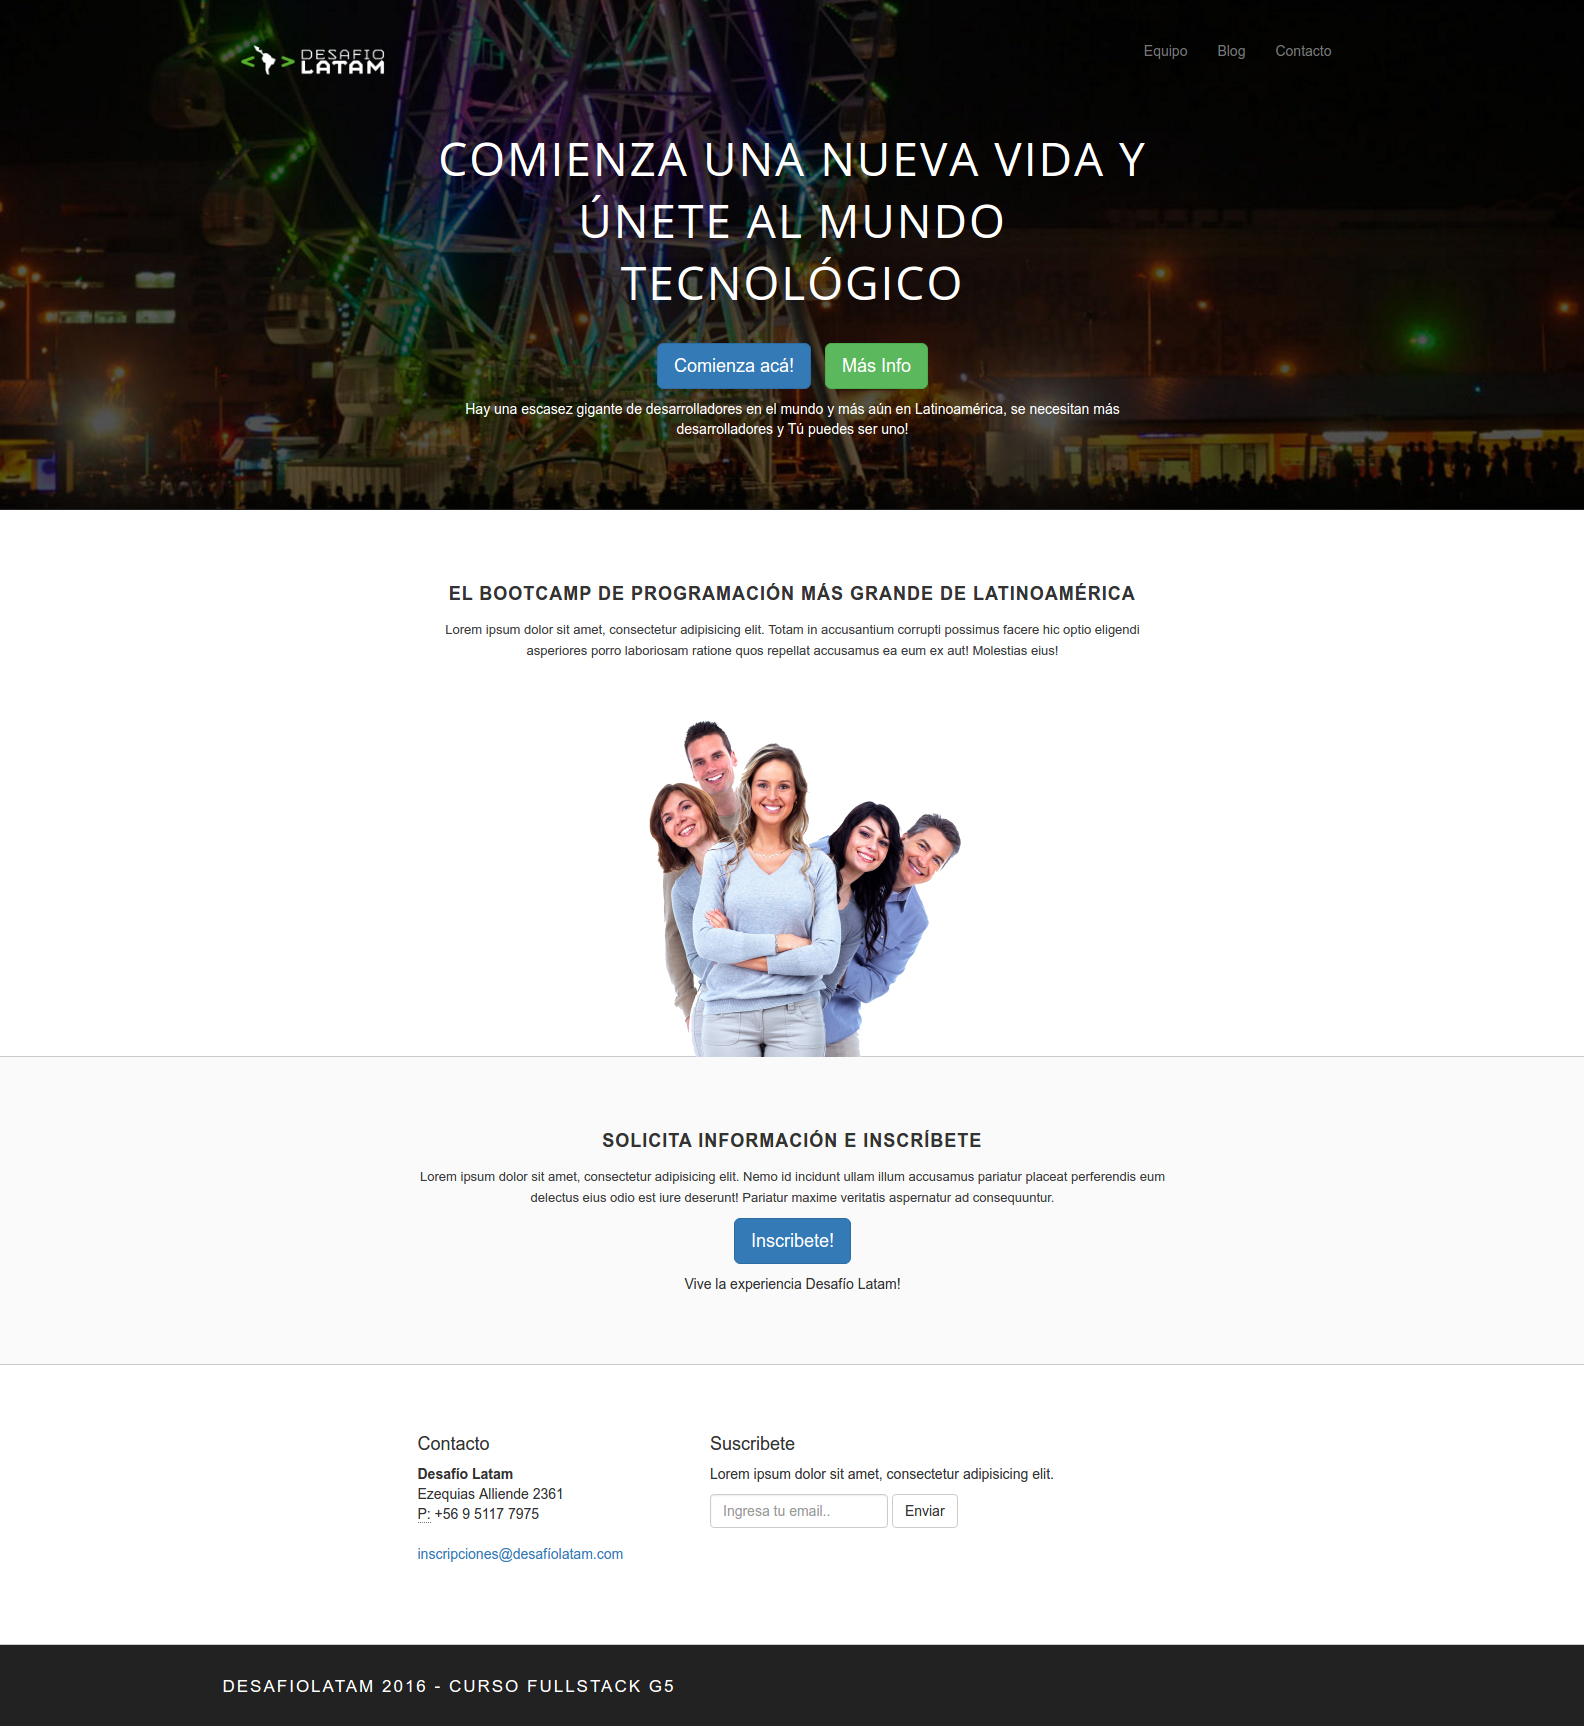
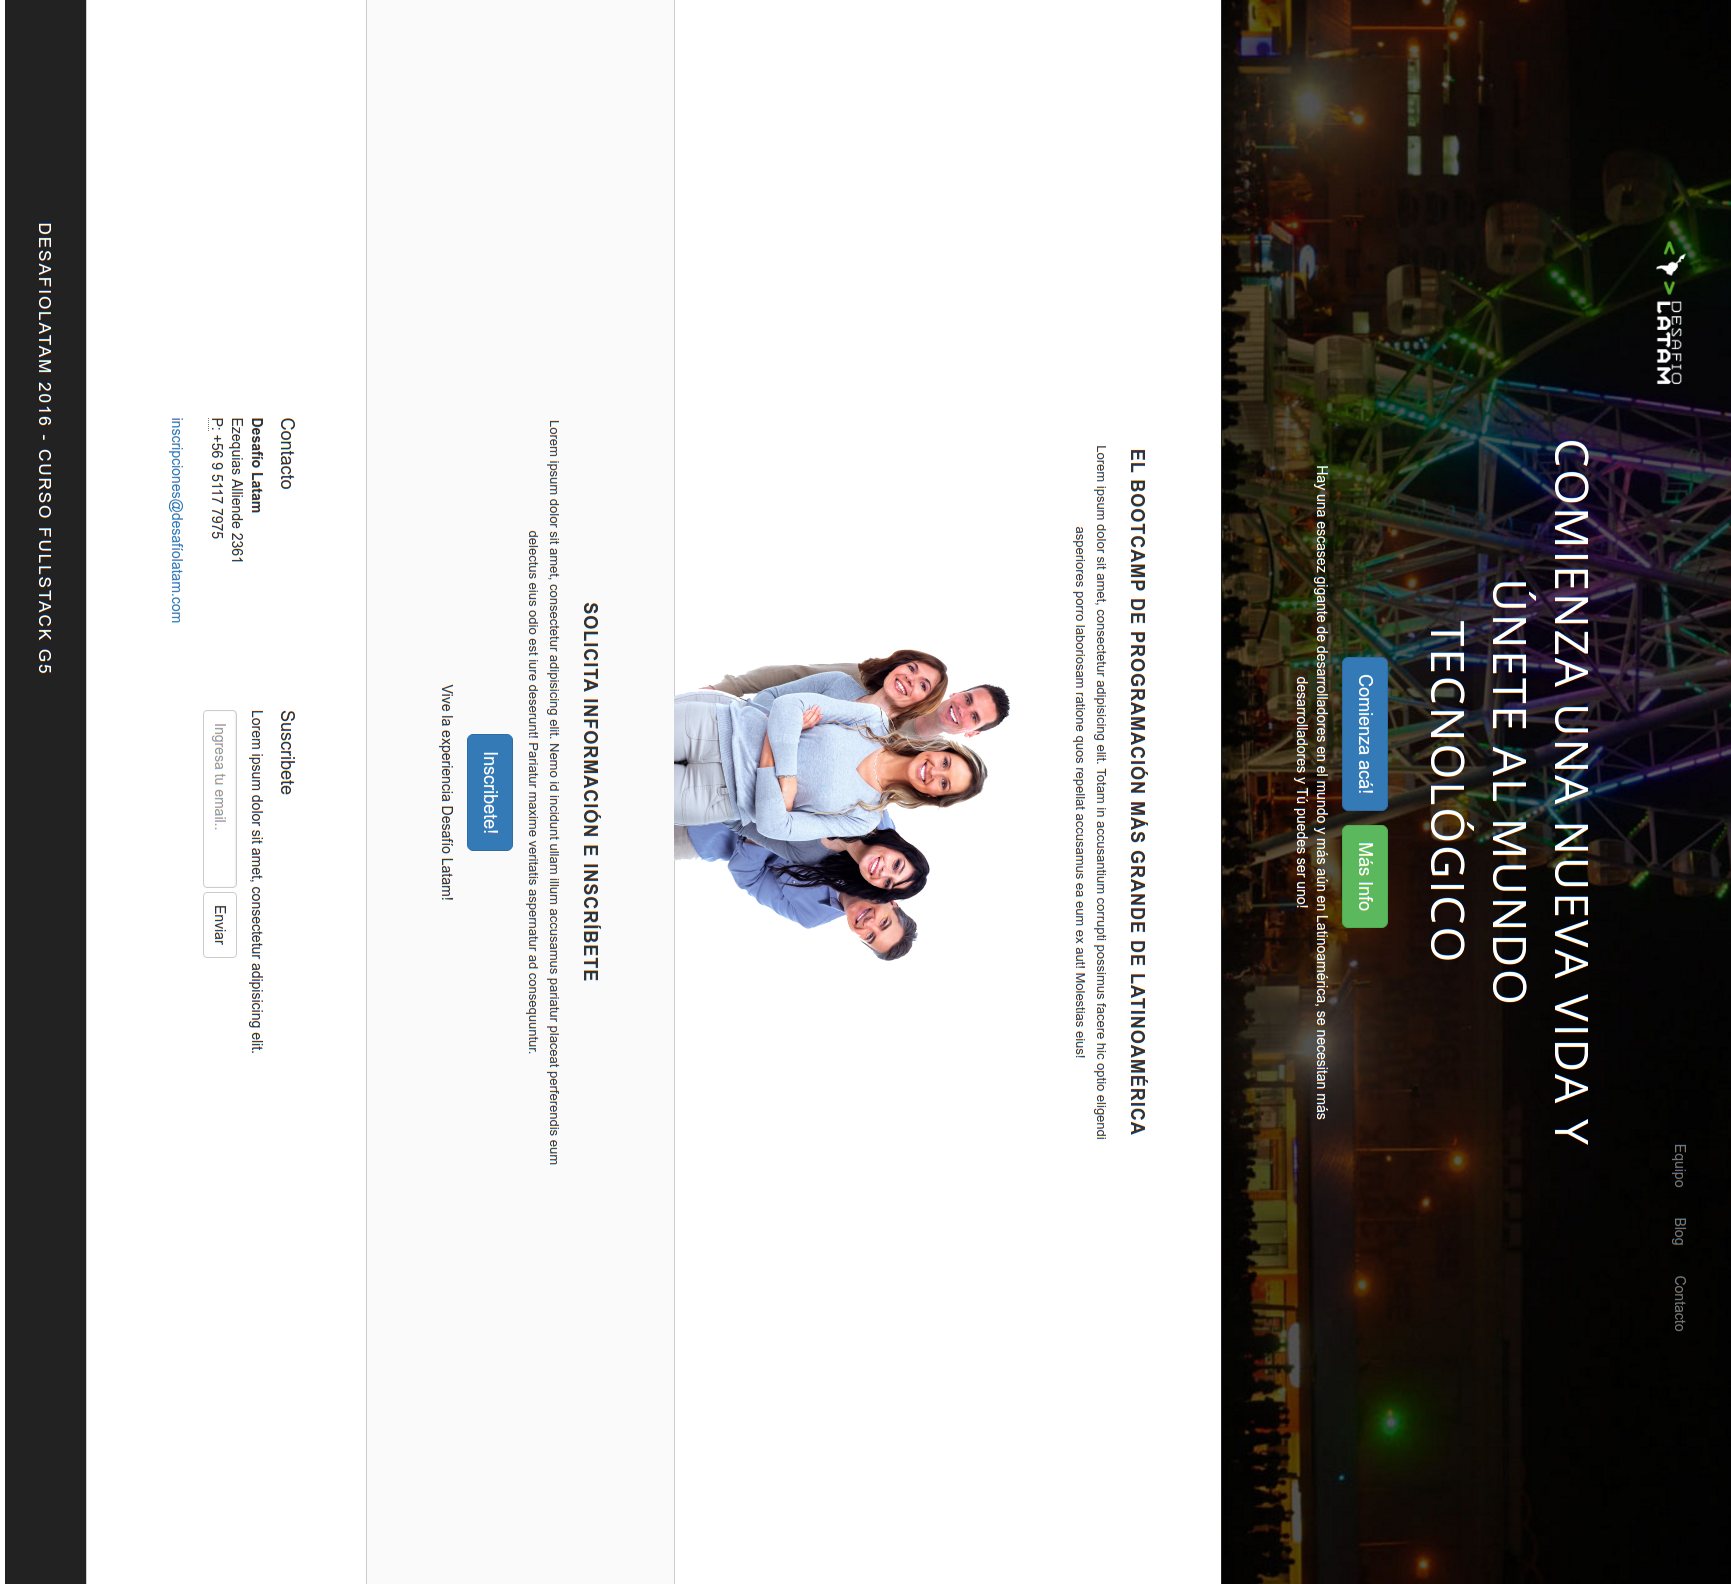
agregado información para el footer

diff --git a/index.html b/index.html
@@ -124,10 +124,20 @@
 	<footer>
 		<div class="container">
 			<div class="col-md-3 col-md-offset-2">
-				
+				<h4>Contacto</h4>
+				<p><b>Desafío Latam</b></p>
+				<p>Ezequias Alliende 2361</p>
+				<p>P:56 9 5117 7975</p>
 			</div><!-- /col  -->
 			<div class="col-md-5">
-				
+				<h4>Suscríbete</h4>
+				<p>Lorem ipsum dolor sit amet, consectetur adipisicing elit.
+				<form>
+					<div class="form-group">
+				    <input type="email" class="form-control" id="exampleInputEmail1" placeholder="Email">
+				  	</div>
+				  	<button type="submit" class="btn btn-default">Enviar</button>
+  				</form> 
 			</div><!-- /col  -->
 			
 		</div><!-- / container -->
